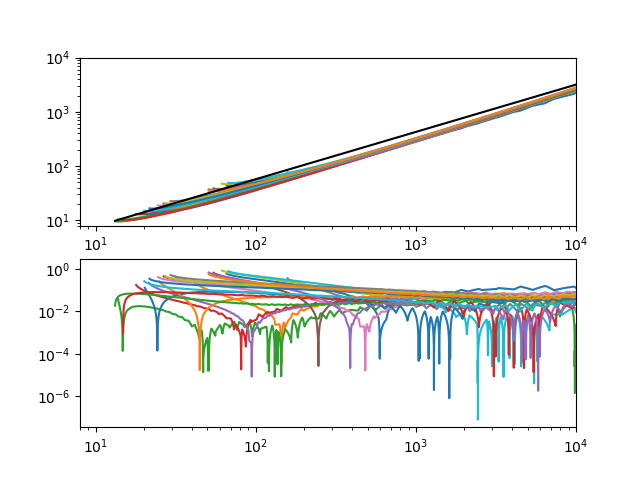
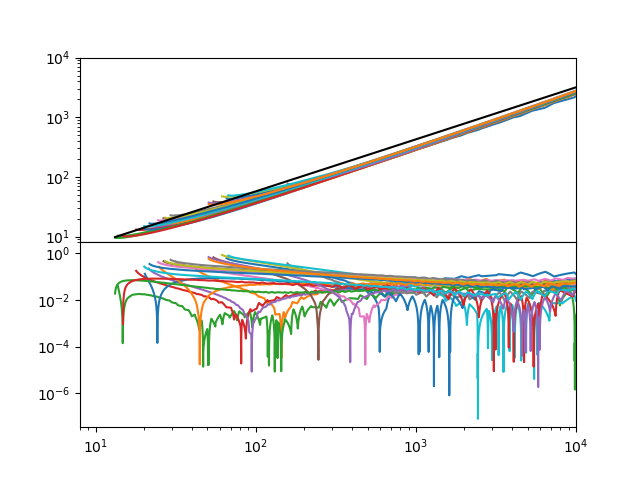
removed whitespace between subplots in combined plot

diff --git a/plotter.py b/plotter.py
@@ -1,7 +1,8 @@
 import numpy as np
 import matplotlib.pyplot as plt
 
-from data_loader import DataLoader
+plt.rcParams['text.usetex'] = True
+
 from eos import EOS
 
 class Plotter:
@@ -93,7 +94,11 @@ class Plotter:
             fig.show()
 
     def plot_combined(self, save=False, show=False):
-        fig, (ax1, ax2) = plt.subplots(2, 1)
+        fig, axs = plt.subplots(2, 1, sharex=True)
+        (ax1, ax2) = axs
+
+        fig.subplots_adjust(wspace=0, hspace=0)
+
         self.plot_main_on_ax(ax=ax1)
         self.plot_residual_on_ax(ax=ax2)
 
